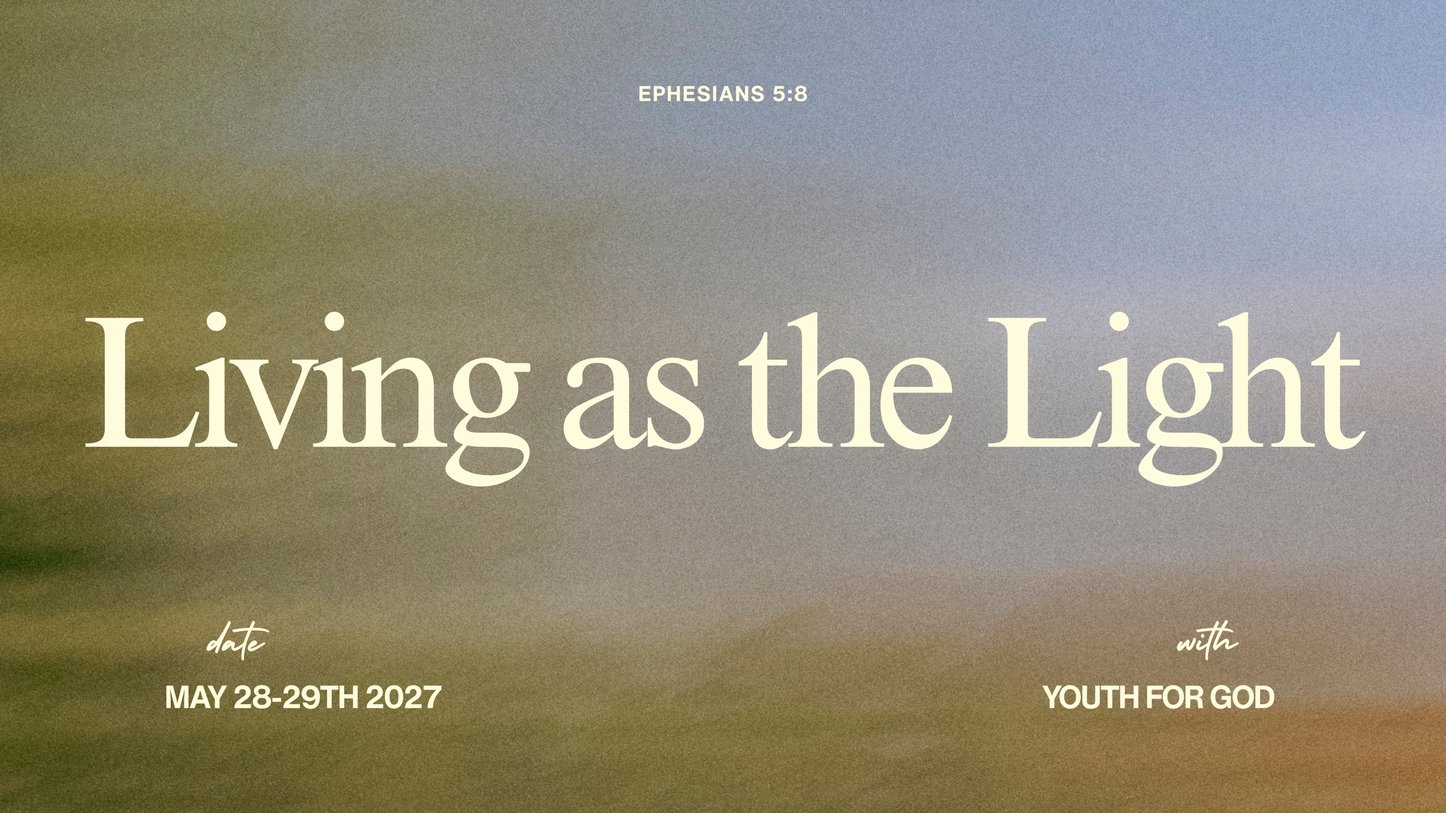
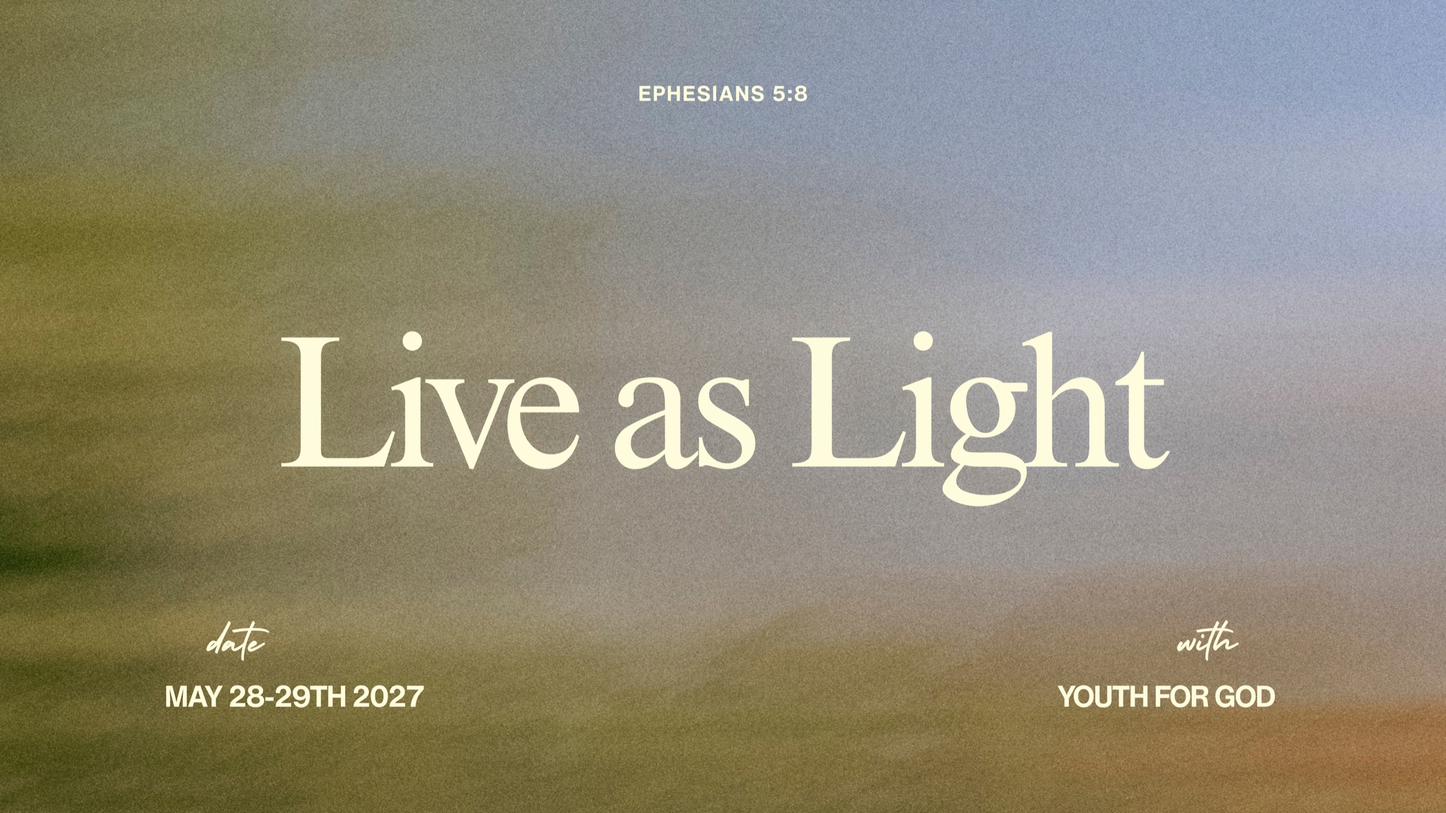
Refresh hero artwork and refine conference copy

diff --git a/src/data/conference.ts b/src/data/conference.ts
@@ -52,7 +52,7 @@ export const conferenceSchedule: ConferenceDay[] = [
       { time: "7:00 AM", activity: "Registration" },
       {
         time: "9:00 AM",
-        activity: "Session II · Expose the works of Darkness",
+        activity: "Session II · Expose the Works of Darkness",
         session: {
           verse: "Ephesians 5:13",
           summary: "Light exposes darkness. As salt and light, Christians are called to holiness and sanctification through the work of the Spirit.",
@@ -61,7 +61,7 @@ export const conferenceSchedule: ConferenceDay[] = [
       },
       {
         time: "11:00 AM",
-        activity: "Session III · The best use of Time",
+        activity: "Session III · Making the Best Use of Time",
         session: {
           verse: "Ephesians 5:15–16",
           summary: "Use time wisely because the days are evil. Understanding the Lord’s will helps us live purposefully and carry out the good works He has prepared for us.",
@@ -71,7 +71,7 @@ export const conferenceSchedule: ConferenceDay[] = [
       { time: "12:30 PM", activity: "Lunch" },
       {
         time: "2:30 PM",
-        activity: "Session IV · Be filled with the Spirit",
+        activity: "Session IV · Be Filled with the Spirit",
         session: {
           verse: "Ephesians 5:18b",
           summary: "The Holy Spirit helps, teaches and comforts us. Being filled with the Spirit leads to gratitude, song and melody in our hearts to God.",
@@ -80,7 +80,7 @@ export const conferenceSchedule: ConferenceDay[] = [
       },
       {
         time: "4:30 PM",
-        activity: "Session V · Be imitators of God",
+        activity: "Session V · Be Imitators of God",
         session: {
           verse: "Ephesians 5:1",
           summary: "Reflect on Christ’s love and sacrifice, turn away from evil, and respond in repentance and renewed commitment to Him. Leave walking as children of light.",

diff --git a/tests/pages.spec.ts b/tests/pages.spec.ts
@@ -45,7 +45,7 @@ test.describe("Youth for God pages", () => {
     await page.goto(routes.landing);
 
     await expect(page.locator("#home.yfg-hero")).toBeVisible();
-    const artwork = page.getByRole("img", { name: "Living as the Light — Ephesians 5:8. Youth for God, May 28–29, 2027." });
+    const artwork = page.getByRole("img", { name: "Youth for God Conference — Ephesians 5:8. May 28–29, 2027." });
     await expect(artwork).toBeVisible();
     await expect.poll(() => artwork.evaluate((img: HTMLImageElement) => img.naturalWidth)).toBeGreaterThan(0);
     await expect.poll(() => artwork.evaluate((img: HTMLImageElement) => img.currentSrc)).toContain(
@@ -107,7 +107,7 @@ test.describe("Youth for God pages", () => {
     await expect(friday.getByText("Session I · Introduction", { exact: true })).toBeVisible();
     await expect(friday.getByText("8:30 – 10:00 PM")).toBeVisible();
     await expect(saturday.getByText("7:00 AM", { exact: true })).toBeVisible();
-    for (const title of ["Expose the works of Darkness", "The best use of Time", "Be filled with the Spirit", "Be imitators of God"]) {
+    for (const title of ["Expose the Works of Darkness", "Making the Best Use of Time", "Be Filled with the Spirit", "Be Imitators of God"]) {
       await expect(saturday.getByText(title, { exact: false })).toBeVisible();
     }
     await expect(saturday.getByText("12:30 PM", { exact: true })).toBeVisible();

diff --git a/src/pages/FAQ/FAQ.tsx b/src/pages/FAQ/FAQ.tsx
@@ -18,10 +18,6 @@ const faqs: { question: string; answer: ReactNode }[] = [
     answer: "Living as the Light. The teaching theme, ‘You – a lit’L Christian?’, asks what it means to be light in the Lord and walk as children of light (Ephesians 5:8).",
   },
   {
-    question: "Who will be speaking?",
-    answer: "Roman Balatskiy, Daniel Clark, Ivan Dzyuba and Andrey Sentsov, with one additional speaker to be announced. Daniel Clark will teach Session I. The remaining session assignments are to be announced.",
-  },
-  {
     question: "How do I register, and what does it cost?",
     answer: <>Visit the <a href="/register">registration page</a> for the current 2027 registration form and pricing.</>,
   },
@@ -36,10 +32,6 @@ const faqs: { question: string; answer: ReactNode }[] = [
   {
     question: "Will food be provided?",
     answer: "The schedule includes Friday tea from 8:30 to 10:00 PM, Saturday lunch at 12:30 PM and supper at 6:00 PM. Contact the team for meal arrangements and dietary questions.",
-  },
-  {
-    question: "Are hotels provided?",
-    answer: "Please contact the team for 2027 lodging information.",
   },
   {
     question: "Who do I contact for additional questions?",

diff --git a/src/pages/Landing.tsx b/src/pages/Landing.tsx
@@ -35,9 +35,9 @@ export function Landing() {
             <img
               className="yfg-hero__image"
               src="/living-as-the-light-hero.jpg"
-              alt="Living as the Light — Ephesians 5:8. Youth for God, May 28–29, 2027."
+              alt="Youth for God Conference — Ephesians 5:8. May 28–29, 2027."
               width={2400}
-              height={1350}
+              height={1349}
               loading="eager"
               fetchPriority="high"
               decoding="async"

diff --git a/docs/conference-2027.md b/docs/conference-2027.md
@@ -1,6 +1,6 @@
 # Conference 2027
 
-Source: the user-supplied two-page `YouthForGod_2027.pdf`. Desktop artwork: `Living as the Light-2.png`; mobile artwork: `Living as the Light-3.png`. The website combines the artwork title, **Living as the Light**, with the PDF teaching theme, **You – a lit’L Christian?**, meaning “you are light in the Lord.” The main reference is Ephesians 5:8.
+Source: the user-supplied two-page `YouthForGod_2027.pdf`. Desktop artwork: `Living as the Light-2 2.png` (“Live as Light”); mobile artwork: `Living as the Light-3.png`. The website combines the artwork title, **Living as the Light**, with the PDF teaching theme, **You – a lit’L Christian?**, meaning “you are light in the Lord.” The main reference is Ephesians 5:8.
 
 ## Confirmed information
 
@@ -16,11 +16,11 @@ Source: the user-supplied two-page `YouthForGod_2027.pdf`. Desktop artwork: `Liv
 | Friday | 7:00 PM | Session I: Introduction | Ephesians 5:8 |
 | Friday | 8:30–10:00 PM | Tea | |
 | Saturday, May 29 | 7:00 AM | Registration | |
-| Saturday | 9:00 AM | Session II: Expose the works of Darkness | Ephesians 5:13 |
-| Saturday | 11:00 AM | Session III: The best use of Time | Ephesians 5:15–16 |
+| Saturday | 9:00 AM | Session II: Expose the Works of Darkness | Ephesians 5:13 |
+| Saturday | 11:00 AM | Session III: Making the Best Use of Time | Ephesians 5:15–16 |
 | Saturday | 12:30 PM | Lunch | |
-| Saturday | 2:30 PM | Session IV: Be filled with the Spirit | Ephesians 5:18b |
-| Saturday | 4:30 PM | Session V: Be imitators of God | Ephesians 5:1 |
+| Saturday | 2:30 PM | Session IV: Be Filled with the Spirit | Ephesians 5:18b |
+| Saturday | 4:30 PM | Session V: Be Imitators of God | Ephesians 5:1 |
 | Saturday | 6:00 PM | Supper | |
 | Saturday | 7:00–9:00 PM | Bonfire | |
 

diff --git a/README.md b/README.md
@@ -79,7 +79,7 @@ npm run build
 
 For full-page desktop and mobile screenshots of each available route, run `YFG_SHOW_CONFERENCE_PAGES=true YFG_CAPTURE_SCREENSHOTS=true npm test -- --grep "redesigned pages"`. Images are written into the matching test output directories under `test-results/`. The responsive checks cover viewport overflow, original header/footer branding and mobile-menu navigation.
 
-The home hero artwork is `public/living-as-the-light-hero.jpg`, a 2400×1350 JPEG derived from the supplied “Living as the Light-2.png”. At widths below 768px, the hero uses `public/living-as-the-light-hero-mobile.jpg`, a 1080×1920 (9:16) JPEG derived from “Living as the Light-3.png”. At 768px and above, it uses the 16:9 landscape artwork. Both images display uncropped with descriptive alternative text; picture sources and HTML preloads use matching breakpoints. Current event copy follows the supplied 2027 PDF; the media archive and labeled promo remain from 2026.
+The home hero artwork is `public/living-as-the-light-hero.jpg`, a 2400×1349 JPEG derived from the supplied “Living as the Light-2 2.png” (the updated “Live as Light” design). At widths below 768px, the hero uses `public/living-as-the-light-hero-mobile.jpg`, a 1080×1920 (9:16) JPEG derived from “Living as the Light-3.png”. At 768px and above, it uses the 16:9 landscape artwork. Both images display uncropped with descriptive alternative text; picture sources and HTML preloads use matching breakpoints. Current event copy follows the supplied 2027 PDF; the media archive and labeled promo remain from 2026.
 
 ## Conference Content
 

diff --git a/docs/agent-plans/2026-11-16-refresh-desktop-artwork.md b/docs/agent-plans/2026-11-16-refresh-desktop-artwork.md
@@ -1,0 +1,22 @@
+# Task Plan: Refresh desktop hero artwork
+
+## Goal
+Replace the desktop hero with the supplied Living as the Light-2 2.png, displaying “Live as Light.”
+
+## Existing Context
+Reviewed Landing.tsx picture sources, existing image tests, current artwork documentation and source dimensions (3000×1687). Mobile uses its own portrait source below 768px.
+
+## Expected Behavior
+Desktop uses the new artwork without cropping. Preserve mobile artwork, page copy and responsive breakpoint. Use descriptive shared alt text appropriate to both variants.
+
+## Test Plan
+Use existing desktop/mobile landing checks for image loading, source selection and aspect ratio, plus the production preview build. No new test needed for an asset-only replacement; update the existing alt-text locator.
+
+## Implementation Plan
+Optimize the supplied PNG to the existing desktop JPEG path, update shared image description and documentation, then validate.
+
+## Documentation Plan
+Update README/source provenance and record verification here.
+
+## Results
+Replaced the desktop JPEG with the supplied artwork optimized to 2400×1349, and matched the image dimensions and shared alt text. Mobile artwork is unchanged. Desktop/mobile landing checks: 4 passed. Final production build passed with asset-size warnings; `git diff --check` passed.

diff --git a/docs/agent-plans/2026-11-16-schedule-copy.md b/docs/agent-plans/2026-11-16-schedule-copy.md
@@ -1,0 +1,22 @@
+# Task Plan: Polish schedule grammar and capitalization
+
+## Goal
+Make the public schedule wording grammatically clear and consistently capitalized.
+
+## Existing Context
+Reviewed src/data/conference.ts, schedule route assertions and docs/conference-2027.md. Times, dates, day labels and activity names are already consistently formatted.
+
+## Expected Behavior
+Use title case for all sermon titles: Expose the Works of Darkness; Making the Best Use of Time; Be Filled with the Spirit; Be Imitators of God. Preserve the schedule's dates, times and session numbering.
+
+## Test Plan
+Update existing schedule expectations and run desktop/mobile schedule checks plus the production preview build. No new tests for copy-only changes.
+
+## Implementation Plan
+Apply matching wording to source data, existing tests and schedule documentation, then validate.
+
+## Documentation Plan
+Update the schedule table in docs/conference-2027.md and record results here.
+
+## Results
+Updated four session titles, matching assertions and the documentation table. Desktop/mobile schedule tests: 2 passed. Production build passed through the preview command; `git diff --check` passed.

diff --git a/docs/agent-plans/2026-11-16-remove-faq-items.md b/docs/agent-plans/2026-11-16-remove-faq-items.md
@@ -1,0 +1,22 @@
+# Task Plan: Remove speaker and hotel FAQ items
+
+## Goal
+Remove the requested speaker and hotel questions and their answers from the FAQ.
+
+## Existing Context
+Reviewed README.md, AGENTS.md, package.json, playwright.config.ts, FAQ.tsx and existing FAQ route coverage. FAQ entries are rendered from a local array.
+
+## Expected Behavior
+The FAQ no longer includes “Who will be speaking?” or “Are hotels provided?” and their answers. Other questions and the dedicated speakers page remain unchanged.
+
+## Test Plan
+Run existing desktop/mobile FAQ behavior coverage and its production preview build. No new tests for this straightforward copy removal.
+
+## Implementation Plan
+Remove the two array entries, then run existing checks.
+
+## Documentation Plan
+Record the removed entries and verification in this plan.
+
+## Results
+Removed both requested FAQ entries. Desktop/mobile FAQ checks: 2 passed. Production build passed through the preview command; `git diff --check` passed.
